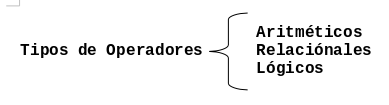
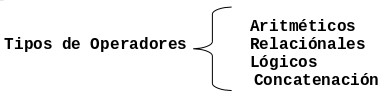
Agrego concatenacion al capitulo de expresiones.

diff --git a/docs/expresiones.md b/docs/expresiones.md
@@ -5,6 +5,7 @@ operaciones válidas que se pueden realizar con ellos. Los conceptos a revisar
 son:
 
 * **expresiones**,
+* **concatenación**,
 * operaciones **aritméticas**,
 * operaciones **relacionales**,
 * operaciones **lógicas**,
@@ -13,46 +14,57 @@ son:
 ## Tipos de expresiones
 
 Las expresiones son combinaciones de constantes, variables, símbolos de
-operación, paréntesis y nombres de funciones especiales. Por ejemplo:
+operación, y paréntesis. Por ejemplo:
 `a + (b + 3) / c`.
 
-Cada expresión toma un valor que se determina tomando los valores de las
-variables y constantes implicadas y la ejecución de las operaciones indicadas.
+Cada expresión resulta en un valor que se determina al evaluar las operaciones
+indicadas usando los valores de las variables y constantes implicadas.
 
-Una expresión consta de operadores y operandos. Según sea el tipo de datos que
-manipulan, las expresiones se clasifican en:
+Una expresión consta de **operadores y operandos**. Según sea el tipo de
+datos que manipulan, las expresiones se clasifican en:
 
--   Aritméticas
--   Relacionales
--   Lógicas
+- Aritméticas
+- Relacionales
+- Lógicas y
+- De concatenación
 
 ## Operadores y Operandos
 
 Los operadores son elementos que relacionan de forma diferente, los valores de
 una o mas variables y/o constantes. Es decir, los operadores nos permiten
-manipular valores y se dividen en tres grupos como se muestra en la siguiente
+manipular valores y se dividen en cuatro grupos como se muestra en la siguiente
 Figura:
 
 ![Tipos de operadores](images/tipos-operadores.png)
 
+### Concatenación
+
+Una operación de concatenación involucra dos o mas valores alafanuméricos o
+cadenas, cuyo contenido se va agregando al resultado final, evaluando de
+izquierda a derecha. Generalmente representamos esta operación con el operador
+`+`, aunque algunos lenguajes de programación usan un símbolo diferente. Por
+ejemplo:
+
+`"Hola " + "mundo"` dará como resultado `"Hola mundo"`
+
 ### Operadores Aritméticos
 
-Los operadores aritméticos permiten realizar de operaciones matemáticas sobre
-valores (variables y constantes). La forma general que tiene una operación
-aritmética que opera sobre dos valores se ilustra en la siguiente Figura:
+La forma general que tiene una operación aritmética que opera sobre dos valores
+se ilustra en la siguiente Figura:
 
 ![Sintaxis de operadores](images/sintaxis-operadores.png)
 
-Los operadores aritméticos pueden ser utilizados con tipos de datos enteros o
-reales. Si ambos son **enteros**, el resultado es **entero**; si alguno de ellos
+Los operadores aritméticos son válidos para tipos de datos enteros o reales.
+Si ambos son **enteros**, el resultado es **entero**; si alguno de ellos
 es **real**, el resultado es **real**. Las operaciones aritméticas son las
 siguientes:
 
--   Suma: `+`
--   Resta: `-`
--   Multiplicación: `*`
--   División: `/`
--   Módulo (residuo de la división entera): `%`
+- Suma: `+`
+- Resta: `-`
+- Multiplicación: `*`
+- División: `/`
+- Módulo (residuo de la división entera): `%`
+- Exponenciación: `^`
 
 Ejemplos:
 
@@ -61,6 +73,7 @@ Ejemplos:
 | `7 / 2`      | `3.5`     |
 | `12 % 7`     | `5`       |
 | `4  + 2 * 5` | `14`      |
+| `3 ^ 2`     | `9`      |
 
 #### Prioridad de los Operadores Aritméticos
 
@@ -99,9 +112,9 @@ Los operadores relacionales se utilizan para establecer una relación entre dos
 valores. Los valores se comparan entre sí y esta comparación produce un
 resultado de certeza o falsedad (verdadero o falso).
 
-Los operadores relacionales deben comparan valores del mismo tipo (numéricos o
-cadenas), tienen el mismo nivel de prioridad en su evaluación y tienen menor
-prioridad que los operadores aritméticos.
+Los operadores relacionales deben comparan **valores del mismo tipo**
+(numéricos o cadenas), tienen el mismo nivel de prioridad en su evaluación y
+tienen menor prioridad que los operadores aritméticos.
 
 Las operaciones relacionales son las siguientes:
 
@@ -114,7 +127,7 @@ Las operaciones relacionales son las siguientes:
 
 #### Ejemplos
 
-Si a = 10, b = 20 y c = 30.
+Si `a = 10`, `b = 20` y `c = 30`.
 
 `a + b > c`
 
@@ -142,14 +155,14 @@ Ejemplos no válidos:
 
 ### Operadores Lógicos
 
-Los operadores lógicos se utilizan para establecer relaciones entre valores
-lógicos. Estos valores pueden ser resultado de una expresión relacional.
+Los operadores lógicos se utilizan para establecer relaciones entre **valores
+lógicos**. Estos valores pueden ser resultado de una expresión relacional.
 
 Las operaciones lógicas son las siguientes:
 
--   Conjunción: **And**, `&`
+-   Conjunción: **AND**, `&`
 -   Disyunción: **OR**, `|`
--   Negación: **Not**, `!`
+-   Negación: **NOT**, `!`
 
 A continuación se muestran las tablas de verdad para las operaciones lógicas.
 
@@ -174,17 +187,15 @@ Ejemplos: Sea `a = 10`, `b = 20` y `c = 30`.
  a < b  & b  < c
 10 < 20 & 20 < 30
    V    &    V
-        V
+       V
 ```
 
 #### Prioridad de los Operadores Lógicos
 
-Los operadores relacionales se evaluán en el siguiente orden.
+Los operadores relacionales se evalúan en el siguiente orden.
 
 -   Not `!`
-
 -   And `&`
-
 -   OR `|`
 
 #### Prioridad de los Operadores en General

diff --git a/docs/entidades-primitivas.md b/docs/entidades-primitivas.md
@@ -76,7 +76,7 @@ Constante
 Variable
 
 :   Es es un valor numérico o alfanumérico cuyo contenido puede **cambiar**
-    durante la ejecución del programa.
+    durante la ejecución de un programa o algoritmo.
 
     Por ejemplo:
 
